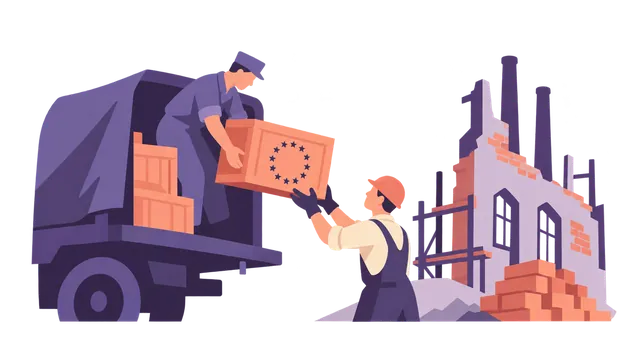
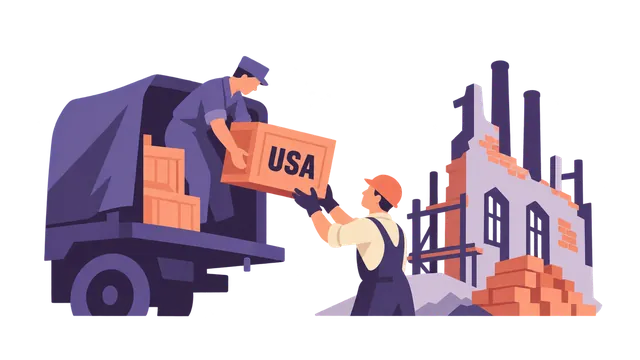
Oprav význam ilustrací 114, 118, 123 a 125 a kontrolu jejich zobrazení

Changed region(s): [[0.0312, 0.1528, 0.9688, 0.9167]]

diff --git a/src/lib/components/PostIllustration.svelte b/src/lib/components/PostIllustration.svelte
@@ -16,7 +16,7 @@
 		'081', '082', '083', '084', '085', '086', '087', '088', '089', '090',
 		'091', '092', '093', '094', '095', '096', '097', '098', '099', '100',
 		'102', '104', '105', '106', '107', '108', '110', '111', '126', '558',
-		'101', '103', '109', '112', '113', '114', '115', '116', '117',
+		'101', '103', '109', '112', '113', '114', '115', '116', '117', '118',
 		'119', '120', '121', '122', '123', '124', '125', '127', '128', '129', '130',
 		'131', '132', '133', '134'
 	]);

diff --git a/docs/ilustrace-handoff.md b/docs/ilustrace-handoff.md
@@ -25,7 +25,7 @@ Doprovodné symboly a vedlejší objekty jsou vítané, pokud mají smysluplný 
 
 Výchozím cílem je jednoduchá ilustrace s jedním výrazným hlavním motivem, který vystihuje obsah a zaujme na první pohled. Obrázek `040` (pracovníci, státní výdaje, stavba) je krajní případ přijatelné složitosti, nikoli vzor pro další ilustrace; běžné výstupy mají být výrazně jednodušší. Vedlejší prvky podporují hlavní motiv a nemají vyžadovat postupné čtení několika scén. Soubor `040.webp` zůstává beze změny.
 
-Sdílený postup pro AI agenty je v `skills/faakt-illustrations/SKILL.md`. Kompaktní prompt a cache kontrolu připravuje `skills/faakt-illustrations/scripts/prepare.mjs`; společný styl je v `prompt.mjs`. Jeden příspěvek znamená nejvýše jedno generování, pokud už asset existuje.
+Sdílený postup pro AI agenty je v `skills/faakt-illustrations/SKILL.md`. Kompaktní prompt a cache kontrolu připravuje `skills/faakt-illustrations/scripts/prepare.mjs`; společný styl je v `prompt.mjs`. Existující asset se bez žádosti o opravu neregeneruje. U výslovné opravy se vytvoří jedna cílená náhrada či úprava; pokud stále významově selhává, je přípustná jedna další zjednodušující úprava. Nevytvářejí se kosmetické varianty ani neomezené smyčky.
 
 Ilustrace vycházejí z `post.illustration`: `concept`, `primary_subject`, `secondary_subjects`, `visual_keywords`, `composition_hints`, `scene_type`, `mood` a `palette`, vždy po přečtení titulku a celého obsahu daného postu. Vysvětlující scéna musí mít čitelný vztah nesoucí hlavní myšlenku. U abstraktního učení je přípustný i doprovodný portrét skutečného učitele, pokud by diagram vyžadoval vymyšlené rekvizity; portrét se nevydává za úplné vysvětlení argumentu. Každý vedlejší předmět se ověřuje proti textu, nejen proti metadatům. Vizuální cíl je 5–8 velkých ploch, nejvýše tři barvy popředí, průhledné pozadí a čitelnost při 160×90 px.
 
@@ -51,7 +51,7 @@ Všech 20 výstupů pro příspěvky 026–045 má 640×360 px, skutečný alfa 
 
 Kontrola pozadí prvních 25 ilustrací (`001`–`025`): všech 25 má skutečný alfa kanál a průhledné rohy. U `005`, `007`, `013`, `020`, `021`, `022` a `023` bylo neprůhledné pozadí odstraněno vestavěným image_gen jako cílená úprava původního obrázku. Původní scény, předměty a nápisy zůstávají zachované; nejde o nové obsahové ilustrace. Výstupy mají průhledné odsazení po všech hranách, RGBA WebP 640×360, quality 80, velikost 13–39 kB. Kontrola při 160×90 a 320×180 px na gradientu karty potvrdila odstranění obdélníkového pozadí. Zbývajících 18 souborů se nemění. Přesné editační prompty, původní a výsledné SHA-256 i metoda jsou v `backgroundEdit` příslušných záznamů manifestu. Nástroj nenabízel řízení rozměru, kvality ani ceny generování. Tato kontrola pozadí není novým sémantickým auditem článků.
 
-- `npm test` kontroluje existenci všech 100 WebP a limit 100 kB.
+- `npm test` kontroluje existenci prvních 100 WebP a limit 100 kB; u všech přijatých záznamů manifestu navíc ověřuje skutečné zapnutí ID v kartách, shodu cesty a existenci souboru pod 100 kB.
 - `npm run build` ověřuje produkční SvelteKit sestavení.
 - Vizuální kontrola: hlavní feed a `/faakt.io/dev/illustrations-ai/` na mobilní šířce.
 
@@ -111,8 +111,23 @@ Deterministick? repair prob?hl pouze v n?hledu; obecn? p?episy nebyly aplikov?ny
 
 ## Dalších 25 chybějících ilustrací
 
-V pořadí databáze byly doplněny `101`, `103`, `109`, `112`–`125` a `127`–`134`; existující assety byly přeskočeny. Každý obrázek vznikl jedním samostatným voláním vestavěného image_gen s výslovnou průhledností. Nástroj nenabízí nastavení rozměru, kvality ani ceny generování. Finální WebP mají 640 × 360 px, quality 80, skutečný alfa kanál, průhledné odsazení a velikost pod 100 kB. Přesné prompty včetně upřesnění kompozice, jejich SHA-256, hashe původních metadat a výsledných souborů jsou v manifestu. Texty a metadata příspěvků zůstávají zachované. Deterministický repair proběhl v náhledu, bez aplikace obecných přepisů.
+V pořadí databáze jsou doplněny `101`, `103`, `109`, `112`–`125` a `127`–`134`; existující assety byly přeskočeny. Generování používá vestavěný image_gen s výslovnou průhledností, u cílených oprav také referenční úpravy. Nástroj nenabízí nastavení rozměru, kvality ani ceny generování. Finální WebP mají 640 × 360 px, quality 80, skutečný alfa kanál, průhledné odsazení a velikost pod 100 kB. Přesné prompty včetně upřesnění kompozice, jejich SHA-256, hashe metadat a výsledných souborů jsou v manifestu. Texty příspěvků zůstávají zachované; metadata 114, 118, 123 a 125 odpovídají níže uvedeným motivům. Deterministický repair proběhl v náhledu, bez aplikace obecných přepisů.
 
-Kontrola proběhla při 160 × 90 a 320 × 180 px. Ilustrace `118` je odmítnutá kvůli kruhu hvězd na bedně, který připomíná pozdější evropskou symboliku namísto americké poválečné pomoci; zůstává v galerii se stavem `rejected-semantics`, do produkčních karet není zapnutá. Automatické opakování generování neproběhlo. Ostatních 24 nových ilustrací je zapnuto v kartách.
+Kontrola proběhla při 160 × 90 a 320 × 180 px. Všech 25 ilustrací této dávky je zapnuto v kartách. `118` má na bedně čitelné USA a stav `accepted`; stará poznámka o odmítnutí už neplatí.
 
-Doprovodné symboly zůstávají, pokud pomáhají obsahu a neznepřehledňují kompozici: například přesýpací hodiny u `103`, medaile u `113` nebo zeměkoule na monitoru u `117`. Nejde o doslovné historické rekonstrukce těchto symbolů. Portréty a vědecké přístroje mohou téma doprovázet bez tvrzení, že samy vysvětlují celý argument; konkrétní omezení uvádí `review.meaning`. Ověření: `npm test`, `npm run build` a kontrola všech 25 rozměrů, alfa kanálů, limitu velikosti, hashů i registrace přijatých ID.
+Doprovodné symboly zůstávají, pokud pomáhají obsahu a neznepřehledňují kompozici: například přesýpací hodiny u `103`, medaile u `113` nebo zeměkoule na monitoru u `117`. Nejde o doslovné historické rekonstrukce těchto symbolů. Portrét může doprovázet abstraktní učení, ale nepochopitelný přístroj nelze přijmout jen s poznámkou, že doprovází objev. Vědecká ilustrace musí ukazovat objevený objekt nebo výsledek. Konkrétní omezení uvádí `review.meaning`. Ověření: `npm test`, `npm run build` a kontrola rozměrů, alfa kanálů, limitu velikosti, hashů i registrace přijatých ID.
+
+## Motivy 114, 118, 123 a 125
+
+| ID | Čitelný hlavní motiv | Barvy | Velikost |
+|---|---|---|---|
+| 114 | Samostatný elektron se záporným znaménkem a popiskem ELEKTRON; bez nejasného přístroje nebo atomu připomínajícího buňku. Jde o symbol částice, nikoli její doslovný tvar. | terakota, krémová | 14 010 B |
+| 118 | Vykládání americké pomoci s velkým USA na bedně u obnovované továrny; původní scéna zachována referenční úpravou. | fialová, korálová, krémová | 33 016 B |
+| 123 | Povstalci se vztyčenými píkami před masivem kulatých věží Bastily, francouzský kontext vyznačený trikolorní stuhou pod scénou. | modrá, krémová, červená | 36 568 B |
+| 125 | Dva kolmé směry světla, shodné časové ukazatele, rovnost a popisek STEJNÝ VÝSLEDEK. | modrá, zlatá, krémová | 27 178 B |
+
+U `123` je trikolorní stuha redakční symbol Francie, nikoli tvrzení o vlajce nesené při útoku 14. července 1789. Dobový kontext pařížských červeno-modrých kokard a povstání ověřuje [Élysée](https://www.elysee.fr/en/french-presidency/bastille-day-14-july). Architektura je zjednodušená, ne měřená rekonstrukce.
+
+U `125` jde o názorné porovnání nulového rozdílu mezi směry, nikoli rekonstrukci interferometru ani tvrzení, že vědci použili zobrazené ciferníky. Délky schémat nejsou kalibrovaným měřítkem. Směry měření a nenalezený rozdíl ověřuje [American Institute of Physics](https://history.aip.org/exhibits/einstein/ae20.htm). Ilustrace netvrdí, že nevznikala interference. Krátké čitelné popisky a znaménka jsou v obou skillech i promptu povoleny, pokud pomáhají pochopení výsledku.
+
+Všechny čtyři RGBA WebP mají 640 × 360 px, průhledné odsazení i rohy a byly prohlédnuty při 160 × 90 a 320 × 180 px na skutečném gradientu karty. Manifest ukládá aktuální metadata, přesné prompty, SHA-256 a důvod náhrady v `correction`, včetně zamítnuté meziverze 114. Přijetí se posuzuje podle skutečně viditelného poznatku či rozpoznávacích znaků události; neúspěch se nesmí přejmenovat na tematický doprovod. Texty, zdroje, kategorie a ostatní záznamy databáze se nemění.

diff --git a/skills/faakt-illustrations/SKILL.md b/skills/faakt-illustrations/SKILL.md
@@ -20,6 +20,9 @@ Create recognizable, restrained editorial raster artwork from each post's `illus
 
 ### Meaning before generation
 
+- Define what a reader should recognize at a glance: the discovered entity, the experimental result, or the particular historical event. An instrument is a good main motif only when its action or result is readable without specialist knowledge. Otherwise prefer the discovered entity or a simple comparison of the result. Do not accept an uninformative apparatus by relabeling it as topic accompaniment in provenance.
+- Preserve the cues that identify the particular event before simplifying: characteristic architecture, collective action, national context or period dress may be necessary together. A generic fortress gate does not identify the storming of the Bastille. Distinguish retrospective editorial symbols from objects actually present at a historical event; verify uncertain period details.
+- Simple comparison diagrams, one clear equality sign, charge marks and a short readable label are allowed when they make the post's result understandable. They need not reproduce the historical measuring instrument. Mark conceptual comparisons honestly and avoid implying that illustrative clocks or symbols were actual experimental equipment. Simplicity and shape-count targets must not remove the fact the image is meant to convey.
 - State the post's central idea and choose whether the image should explain a visible relationship or accompany the text with its actual subject. Use an action, consequence, contrast or adaptation when it can be shown faithfully. A restrained portrait or factual object is appropriate when forcing an abstract teaching into a diagram would require invented props; do not claim that such a portrait proves or fully explains the argument.
 - Supporting symbols and secondary objects are welcome when they meaningfully relate to the post's content and keep the composition easy to understand at thumbnail scale. They may interpret an abstract idea; they need not be literally mentioned in the text or indispensable to the main subject. Remove them only when they have no meaningful connection to the content or make the composition too complex to understand. Check metadata by the same criteria.
 - Keep a clear main motif. A supporting metaphor beside a philosopher or religious figure is acceptable when its connection to the teaching is meaningful and immediately readable. Preserve the curated composition of post 028: Buddha in calm meditation with his own empty hands resting naturally. Its rejected detached hand and gold ball are a case-specific decision, not a general ban on symbolic objects.
@@ -73,9 +76,11 @@ The helper contains the single shared STYLE; use it verbatim rather than adding 
 
 ### Acceptance at thumbnail scale
 
+Compare the generated image with the intended recognition and the actual claim, not merely with the list of objects. For an experiment, verify that the observed outcome or discovered entity is visible; for a historical event, verify that its identifying context survived simplification. A recognizable technical object alone does not pass this check. A semantic failure may not be turned into acceptance by adding a disclaimer about accompaniment.
+
 First verify meaning: for an explanatory scene, identify the visible action or relationship and explain how it supports the post's central idea; for a subject-led portrait, verify the actual subject, relevant pose and meaningful connection of any supporting symbolism to the teaching, and record that it accompanies rather than diagrams the teaching. Audit secondary objects against the full text, not just the prompt: accept meaningful symbolic connections as well as literal subjects, and reject unrelated additions or confusing complexity. Reject a visually attractive image if the intended relationship is absent or disappears at thumbnail scale. Check this separately from simplicity, background and file-size requirements; record the reason in provenance.
 
-View the result at 160?90 and 320?180, not only the full-size output. The primary subject should be immediately identifiable. Reject as over-detailed if it relies on realistic light, fine textures, repeated tiny shapes or scenery unrelated to the concept. Do not call a downscaled painting a successful minimalist illustration. Record any failure honestly; no automatic regeneration loop. If the user explicitly requests a correction, allow one targeted retry simplifying the offending features, then stop for review. Do not try to force lower image-generation cost through prompt wording when the tool lacks size/quality controls.
+View the result at 160?90 and 320?180, not only the full-size output. The primary subject should be immediately identifiable. Reject as over-detailed if it relies on realistic light, fine textures, repeated tiny shapes or scenery unrelated to the concept. Do not call a downscaled painting a successful minimalist illustration. Record any failure honestly; no automatic regeneration loop. For an explicit repair request, make one targeted replacement or edit and inspect it before acceptance. If it still has a substantive semantic defect, allow one additional edit that simplifies the motif within the user's requested scope; do not generate cosmetic variants or accept the defect merely to meet a retry count. Stop and report any failure remaining after that bounded correction. Do not try to force lower image-generation cost through prompt wording when the tool lacks size/quality controls.
 
 ## Static delivery and cache
 
@@ -83,5 +88,6 @@ View the result at 160?90 and 320?180, not only the full-size output. The primar
 - Prefer final 640×360 alpha-capable WebP (quality around 78–82) for a 320 CSS pixel-wide card at 2× density. Preserve aspect ratio and use transparent padding rather than cropping meaningful subjects. For other card proportions adapt dimensions. Use an existing image utility if available; keep a transparent PNG when WebP alpha conversion is unavailable.
 - Do not overwrite established asset paths/manifest entries unintentionally. For new assets use static/illustrations-ai/<id>.webp (or .png). Save the exact submitted prompt, metadata/prompt hash, generation method and final image path in a small manifest or sidecar. Merge entries; never replace the six-post prototype manifest wholesale. Do not record unreported model names, quality, token counts or costs as facts.
 - Inspect at actual card scale once: correct subject, readable silhouette, no unwanted text, and no visible image rectangle or mismatched black around the edges. Do not regenerate for minor aesthetic preference without a review request; report issues. Stop repeated attempts on a substantive failure and report it.
+- After a requested correction, verify both the replacement file and the card registration. A previously rejected asset may exist in the gallery while being excluded from cards; once its correction is accepted, restore its card ID and clear the stale rejection note. A saved image alone does not complete a request to fix a missing card illustration.
 - If preview is requested, reuse /dev/illustrations-ai and existing card/badge styling; honor the /faakt.io base path. Keep generated assets static with no runtime AI. Follow repository handoff-document requirements for gallery changes.
 - Stop at the requested images and local review. Report paths/preview, method, skipped cached IDs and blockers concisely. Creating this skill alone does not authorize new image generations.

diff --git a/skills/faakt-metadata-review/SKILL.md b/skills/faakt-metadata-review/SKILL.md
@@ -57,7 +57,8 @@ Preview with `apply`, inspect the diff it describes, then use `--write` for loca
 
 - **concept:** Choose an explanatory relationship (cause and effect, contrast, sequence, uncertainty, conflict or paradox) when the text supports a legible scene. For an abstract teaching that would require invented props, a restrained portrait of its actual author or teacher is valid; describe its accompanying role honestly instead of manufacturing a diagram. Prefer one coherent scene over a collage of article nouns or a portrait plus an unrelated symbolic vignette.
 - **primary_subject:** Use the actual central entity or mechanism. Check named people, species, places and events in the body. Avoid literal depictions of figurative wording, incidental objects, generic category symbols and discovery instruments displacing the discovered object.
-- **secondary_subjects:** Retain only context needed to explain the main subject. Require a concrete basis in the full text and chosen scene for each object; a thematic association with an abstract word is insufficient. Remove unrelated keyword matches, duplicates, aliases and invented metaphor props. Use an empty array when the main subject is sufficient, rather than adding objects to make an abstract concept look explanatory.
+- **secondary_subjects:** Retain symbols and supporting objects that meaningfully relate to the full article and keep the composition understandable. They may interpret an abstract idea and need not be literally mentioned or indispensable. Remove unrelated additions, duplicates, aliases and objects that make the composition too complex. Preserve cues needed to identify a particular historical event rather than reducing it to generic architecture.
+- **experimental result:** Metadata must state the visible discovery, comparison or outcome. A technically relevant apparatus is insufficient when a reader cannot recognize its purpose at thumbnail scale; prefer the discovered entity or a clear conceptual comparison. A short readable label or equality/charge sign is allowed when it clarifies the result. Distinguish symbolic visualization from literal equipment and do not claim that a drawing proves a scientific conclusion.
 - **visual_keywords:** Reinforce the chosen scene. Remove leftover decorations and word-fragment matches, such as architectural detail in a star scene.
 - **scene_type / composition_hints:** Match the intended scene and current supported schema. A board or chart is not a portrait; a process requires change; a comparison needs a clear relation.
 - **mood / palette:** Preserve appropriate choices. Correct clearly inappropriate emotional direction, such as a playful treatment of suffering. Palette alone rarely warrants a semantic correction.

diff --git a/CLAUDE.md b/CLAUDE.md
@@ -154,6 +154,8 @@ Doporučený postup:
 
 ## Shared skills for AI agents
 
+- Ilustrace experimentu musí na první pohled ukazovat objevený objekt nebo výsledek; samotný nečitelný přístroj nestačí ani s poznámkou, že pouze doprovází téma. Jednoduché porovnání, znaménko nebo krátký čitelný popisek jsou přípustné, pokud pomáhají pochopení. U historické události zachovej rozpoznávací znaky místa, děje a kontextu i při zjednodušování. Po přijetí opravené ilustrace ověř také její zapnutí v kartě. Podrobnosti obsahují ilustrační a metadatový skill.
+
 - Při sdílení ilustrací rozlišuj obsahovou duplicitu od shody konkrétní scény. Oprava pozadí má zachovat nejlépe odpovídající námět; průhledná ilustrace jiného příběhu není automaticky náhradou. U experimentů ověř i směr účinku (u 009 pozitivnější hodnocení po malé odměně). Podrobnosti a výslovně zvolené sdílení 009/082 popisuje `skills/faakt-illustrations/SKILL.md`.
 
 - **Brána originality nových postů:** dodrž povinnou kontrolu v `skills/faakt-create-posts/SKILL.md` a přečti `skills/faakt-create-posts/references/duplicity.md`. Kontrola musí doložit pokrytí celé aktuální databáze (hash, počet, všechna ID) a pracovní verdikt ke každému návrhu s nejbližšími existujícími posty a konkrétním novým poznatkem. Opakovaný mechanismus v jiném příběhu je duplicita. Ověř i hotové texty mezi sebou a změny databáze před zápisem; bez dokončené kontroly dávku nepředávej ani nezapisuj. Pracovní přehled nepatří do datového schématu postů.
